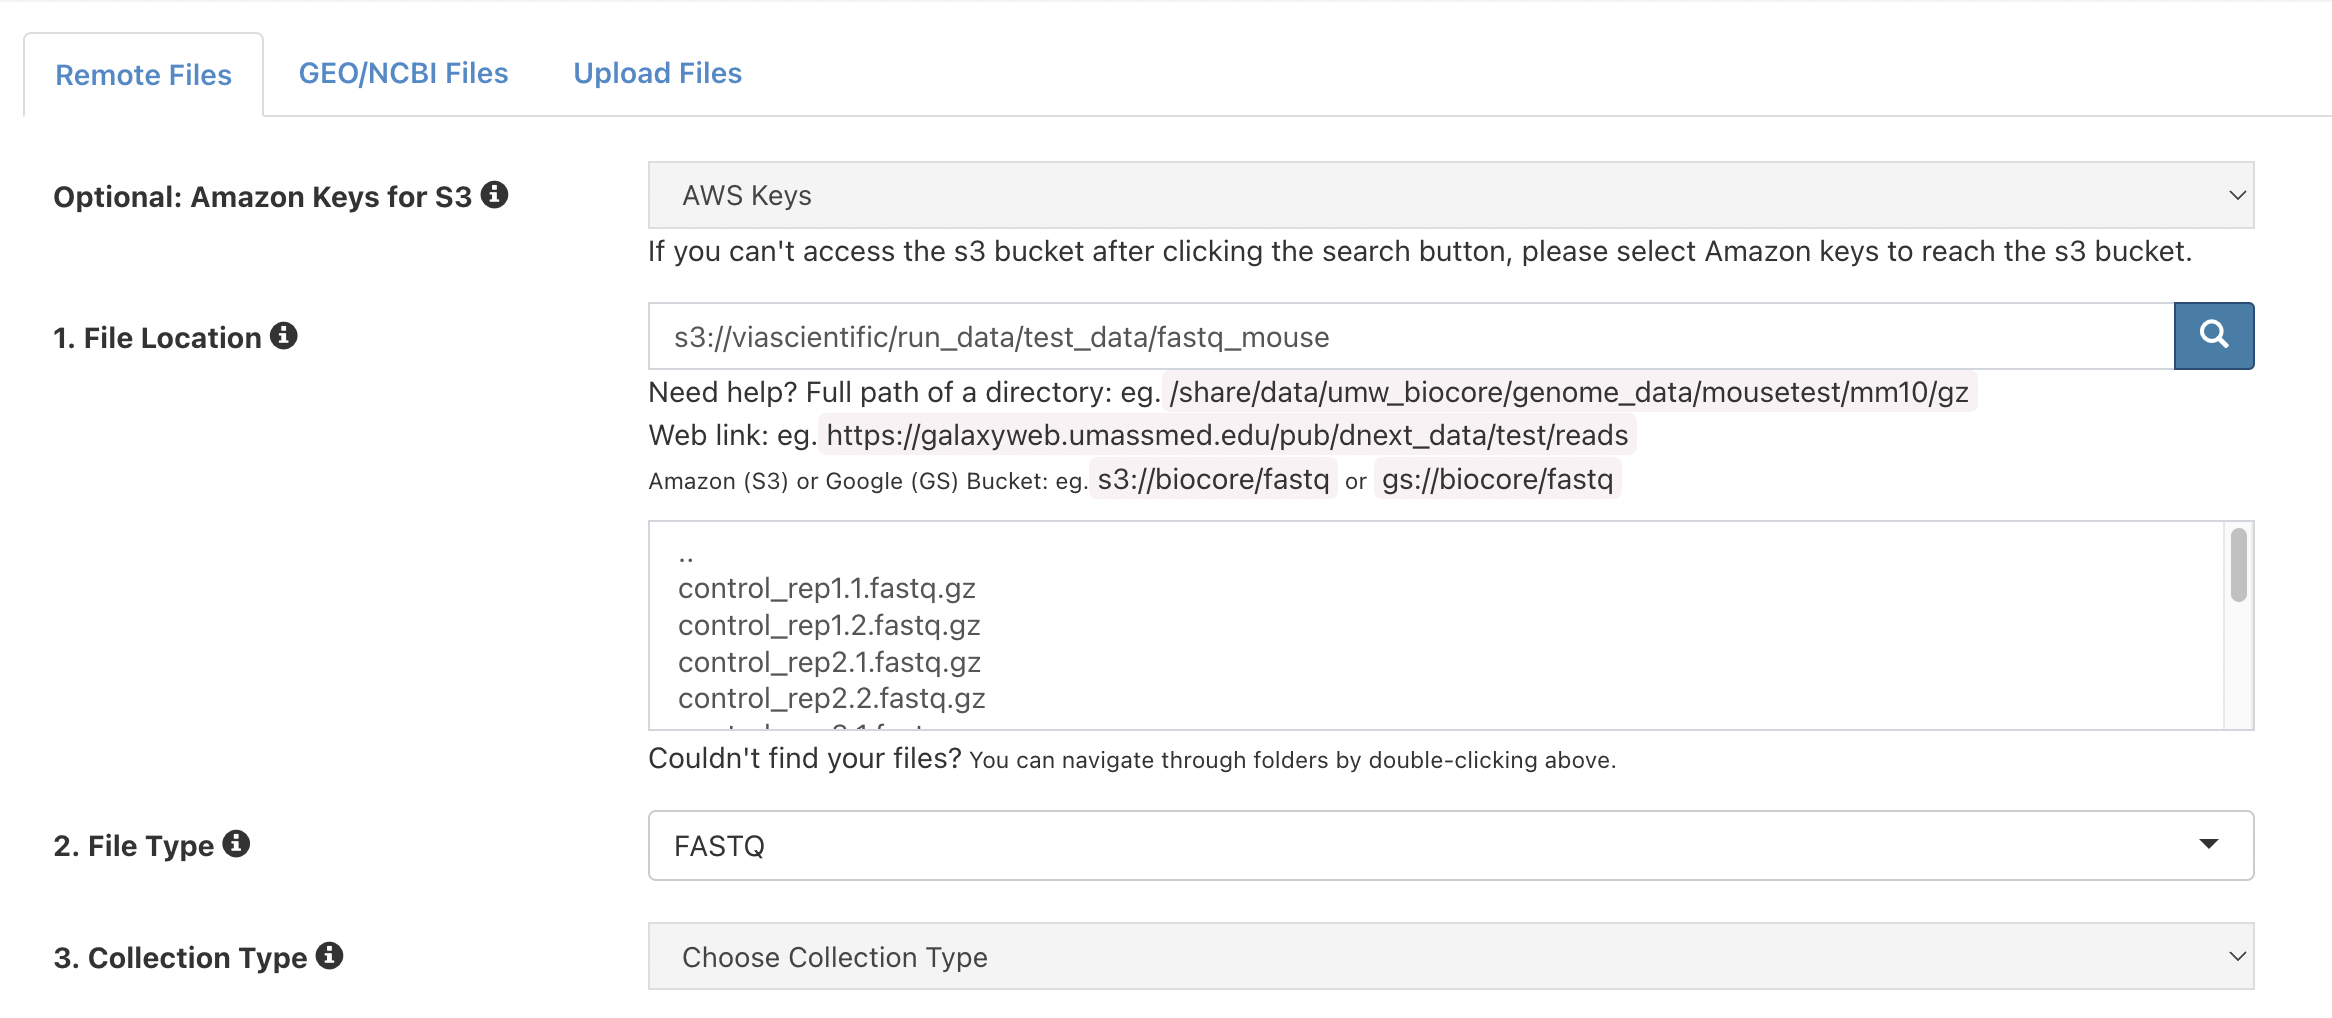
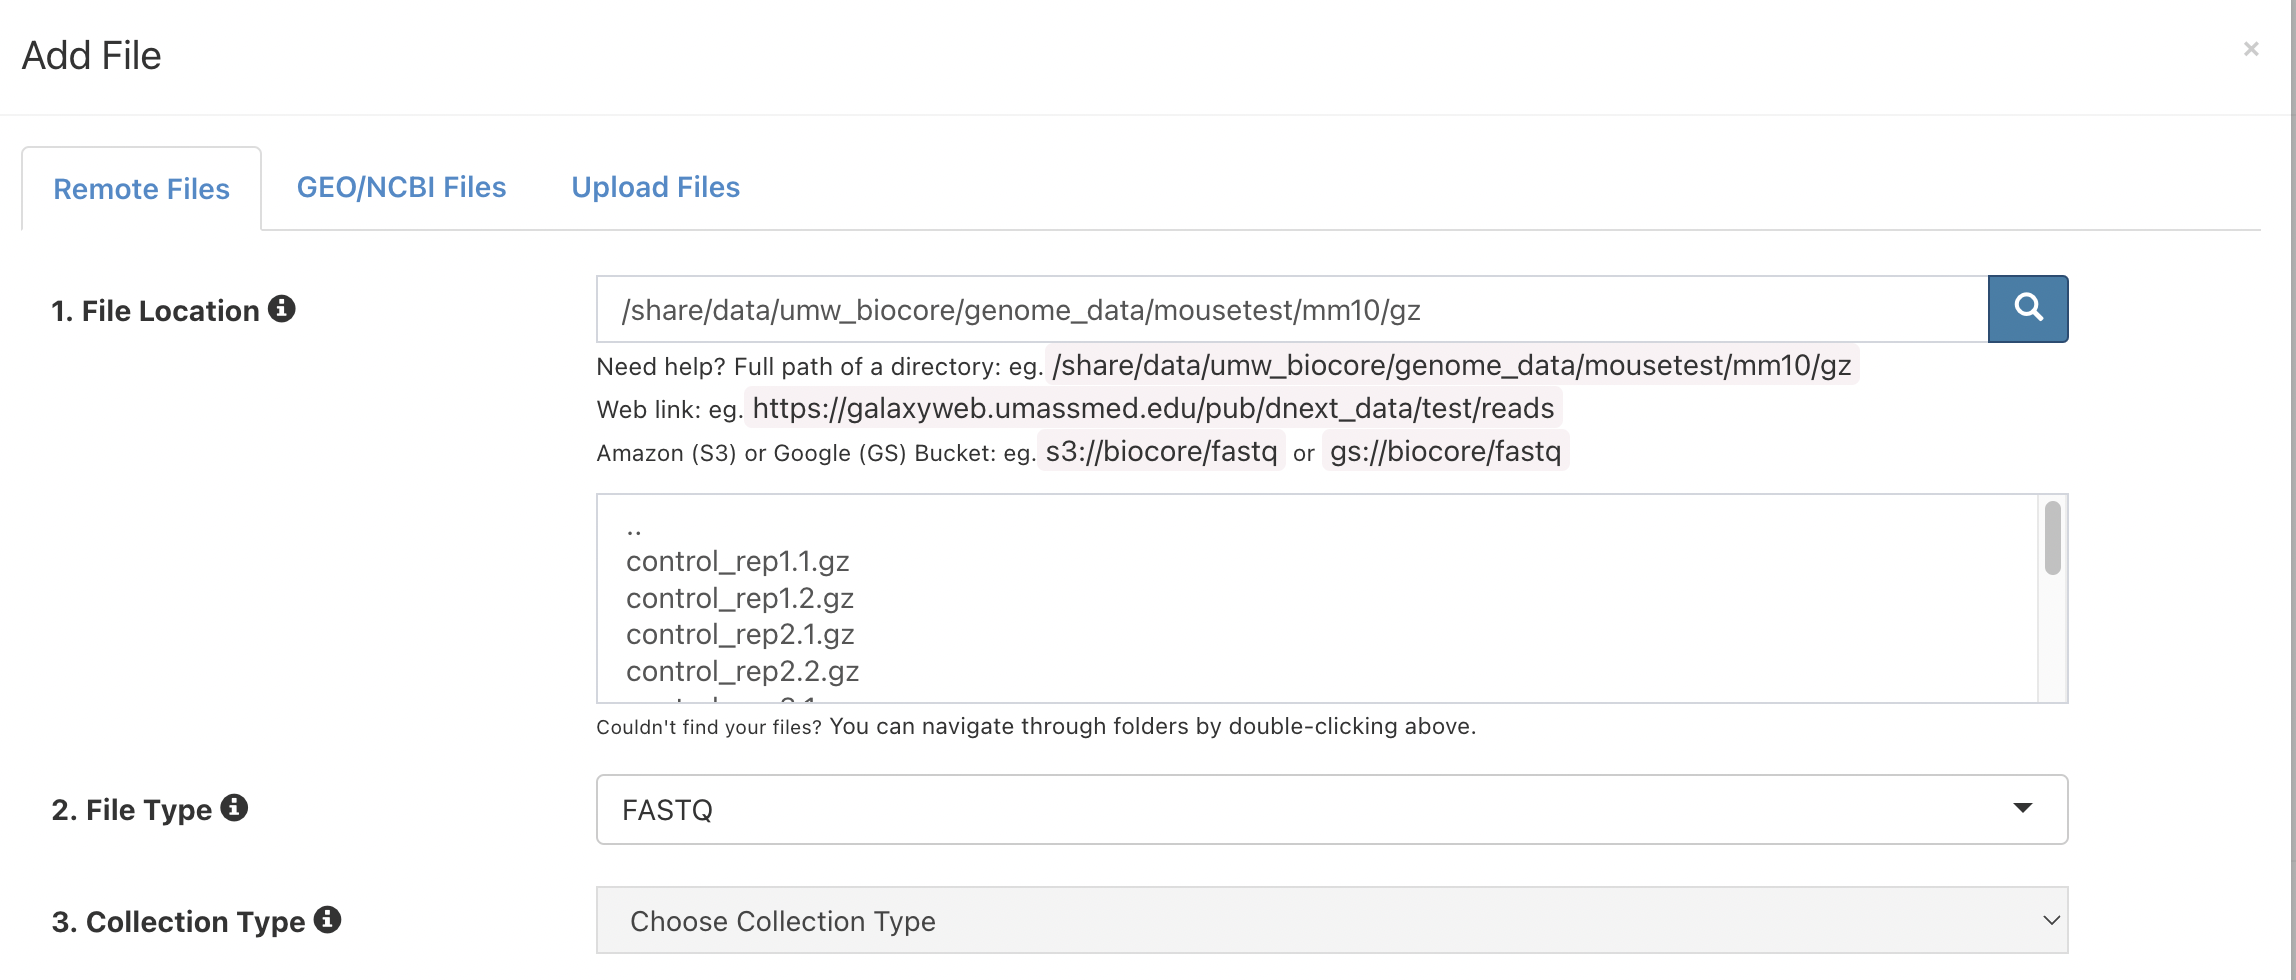
session4 updated

diff --git a/session4/session4.md b/session4/session4.md
@@ -5,29 +5,29 @@ To understand the basics of Foundry, and do RNA-Seq analysis with sample mouse d
 
 # Before you start
 
-Please go to https://dev.viafoundry.net and login into your account. If you have an issue about login, please let us know about it (support@viascientific.com). We will set an account for you.
+Please go to https://viafoundry.umassmed.edu/ and login into your account. If you have a login issue, please let us know about it (BiocoreStaff@umassmed.edu). We will set up an account for you.
 
 Creating a Run
 ========
 
-Once logged in, click on the `Projects` section at the top menu and click `Add a New Project` button. This is the place to configure your project. To access pipelines, click `Pipelines` tab and then click `Add Pipeline` button. 
+Once logged in, click on the `Projects` section at the top menu and click the `Add a New Project` button. Enter your project name and click OK. This is the place to configure your project. To access pipelines, click the `Pipelines` tab and then click the `Add Pipeline` button. 
 
 <img src="rnaseq_images/addpipeline1.png" width="99%">
 
-1. Click on `Add` button on "RNA-Seq Pipeline" and close the window. 
+1. Click on the `Add` button on "RNA-Seq Pipeline" and close the window. 
 
 <img src="rnaseq_images/addpipeline2.png" width="99%">
 
-2. Now click `Run` button of the pipeline on the table.
+2. Now click the `Run` button of the pipeline on the table.
 
 <img src="rnaseq_images/addpipeline3.png" width="99%">
 
-3. Run page will be loaded. Under Run Environment, select "Via Demo Environment(AWS Batch)"
+3. Run page will be loaded. Under Run Environment, select "New UMASS SCI Cluster"
 4. Under User Inputs, next to `reads`, click `Enter File`
-5. Click `Add File` button to enter new files.
+5. Click the `Add File` button to enter new files.
 6. Next to "1. File Location", enter:
 ```
-s3://viascientific/run_data/test_data/fastq_mouse
+/share/data/umw_biocore/genome_data/mousetest/mm10/gz
 ```
 7. and click the magnifying glass icon. The box below should populate with files like so:
 
@@ -38,7 +38,7 @@ s3://viascientific/run_data/test_data/fastq_mouse
 
 <img src="rnaseq_images/addfiles2.png" width="99%">
 
-10. Click `Add All Files` button. You should now see 6 entries below.
+10. Click the `Add All Files` button. You should now see 6 entries below.
 
 <img src="rnaseq_images/addfiles3.png" width="99%">
 
@@ -46,7 +46,7 @@ s3://viascientific/run_data/test_data/fastq_mouse
 12. On the "Select/Add Input File" screen which should now have 6 entries, click "Save".
 13. For "mate", choose "pair"
 14. For genome_build, choose "mousetest"
-15. Leave the rest as defaults
+15. Leave the rest as defaults. Here run_FastQC, run_RSEM, and run_STAR inputs are enabled by default.
 16. Click Run in the top right. RNA-Seq pipeline runs typically take several minutes to complete for this dataset.
 17. Navigate to the Log tab and click on log.txt to see progress on your run.
 18. Once the blue "Running" in the top right changes to a green "Completed" go to the Report tab to see the final reports.
@@ -58,7 +58,7 @@ s3://viascientific/run_data/test_data/fastq_mouse
 
 <img src="rnaseq_images/report2.png" width="99%">
 
-21. Click on RSEM Summary to download count table:
+21. Click on RSEM Summary to download the count table:
 
 <img src="rnaseq_images/report3.png" width="99%">
 
@@ -66,4 +66,4 @@ s3://viascientific/run_data/test_data/fastq_mouse
 
 <img src="rnaseq_images/report4.png" width="99%">
 
-Congratulations! You have run and tested a RNA-Seq pipeline on Foundry!
+Congratulations! You have run and tested an RNA-Seq pipeline on Foundry!
